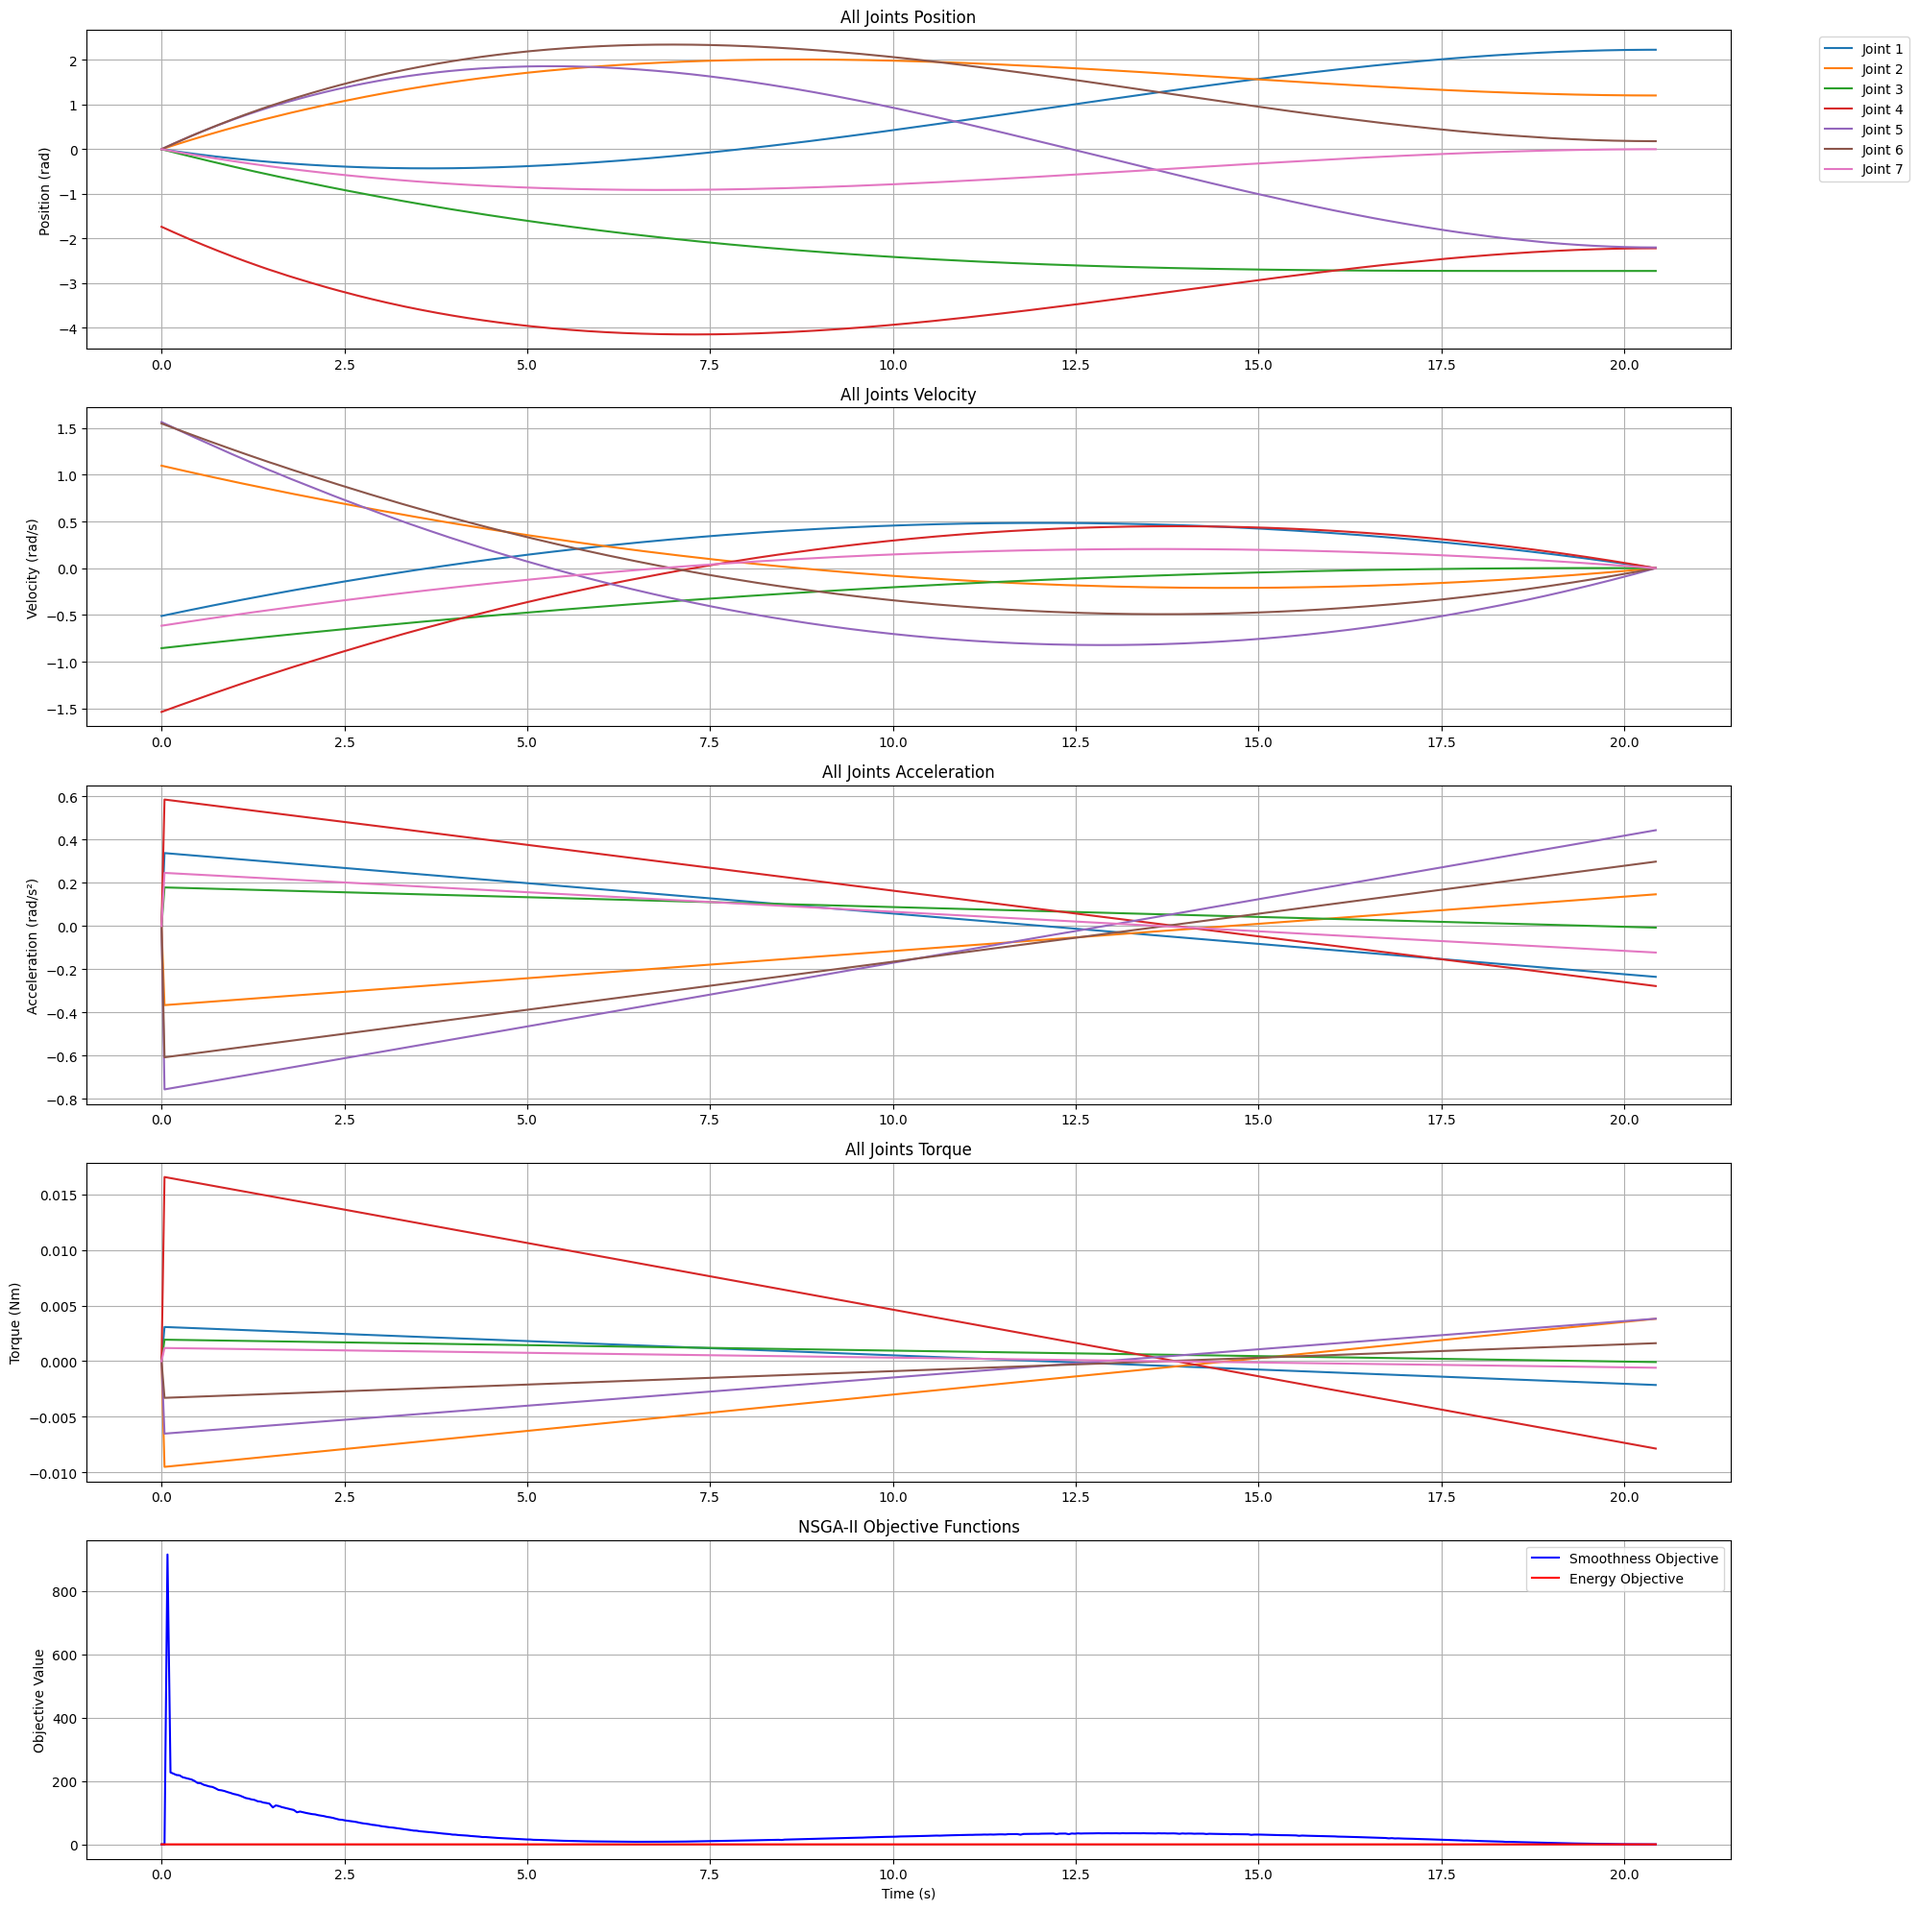
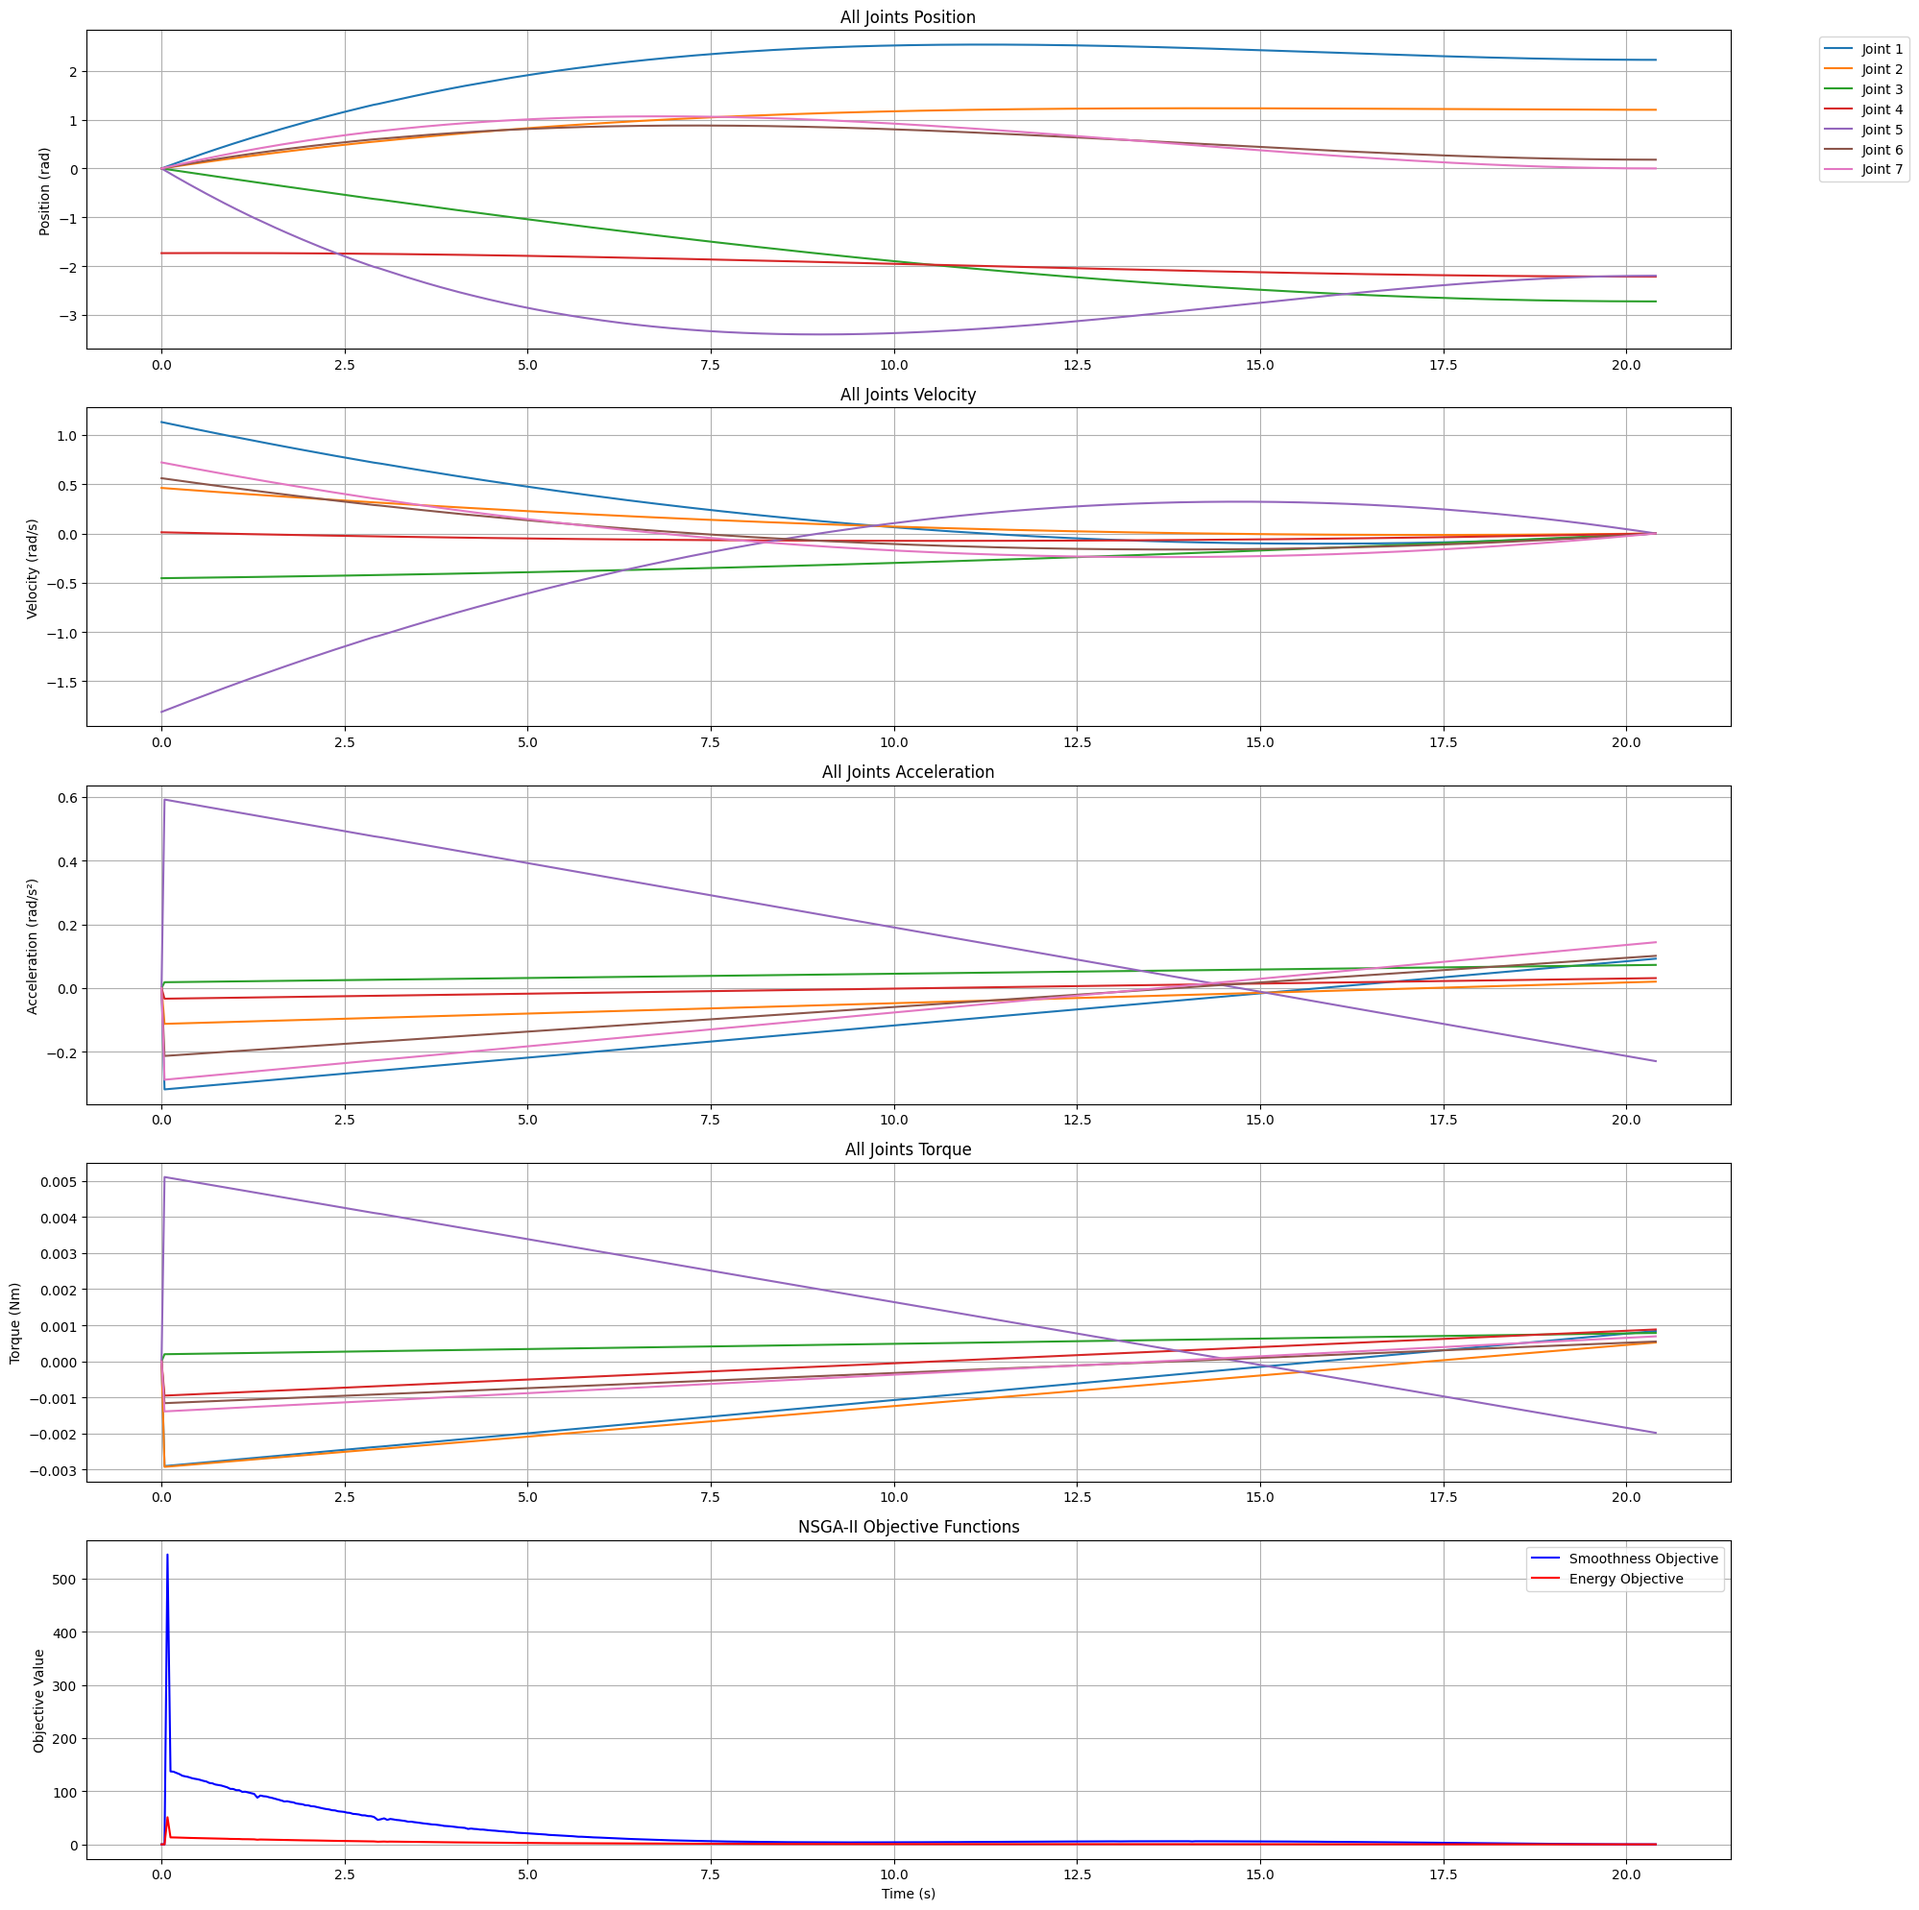
add loss function cal in plot_cal.py

diff --git a/src/franka_h2/scripts/LM_ik_solver.py b/src/franka_h2/scripts/LM_ik_solver.py
@@ -177,7 +177,7 @@ class LM_ik_solver():
             
         return gravity_torques
 
-    def move_to_goal(self, goal_positions, duration=5.0):
+    def move_to_goal(self, goal_positions, duration=10.0):
         if self.current_joint_positions is None:
             rospy.logerr("未获取到当前关节状态！")
             return
@@ -339,7 +339,7 @@ if __name__ == '__main__':
     #move_robot_arm([point_sol[0] , point_sol[1] , point_sol[2] , point_sol[3] , point_sol[4]])
     # solve_ik.move_robot_arm(point_sol.q)
 
-    solve_ik.move_to_goal(point_sol.q, duration=5.0)
+    solve_ik.move_to_goal(point_sol.q, duration=10.0)
     
     print("Robotic arm has successfully reached the goal!")
      

diff --git a/src/franka_h2/scripts/NSGA-2.py b/src/franka_h2/scripts/NSGA-2.py
@@ -139,7 +139,11 @@ class CSI_solver():
                 integral_tau_sq = (I_j**2 * integral_acc_sq) + (2*I_j*g_j*(-v_start)) + (g_j**2 * T)
                 total_energy += integral_tau_sq
 
-            return (total_smoothness, total_energy)
+                print(f"关节 {joint_name} 的能耗指标: {integral_tau_sq:.4f}")
+                print(f"关节 {joint_name} 的平滑性指标: {integral_acc_sq:.4f}")
+        
+
+            return (total_smoothness, total_energy*1000)
 
         # 遗传算子
         def crossover(p1, p2):

diff --git a/src/franka_h2/scripts/plot_cal.py b/src/franka_h2/scripts/plot_cal.py
@@ -105,7 +105,7 @@ class JointStateLogger:
         self.prev_positions = {k: [v[-1]] for k, v in positions.items()}
         self.prev_time = current_time
         
-        return total_smoothness, total_energy
+        return total_smoothness, total_energy*1000
 
     def traj_callback(self, msg):
         # 原有数据收集逻辑
